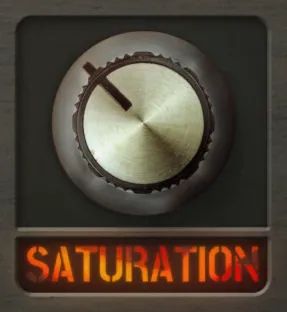
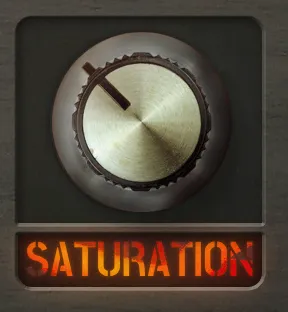
Update docs images

diff --git a/docs/index.html b/docs/index.html
@@ -997,7 +997,7 @@ footer img {
         "width": 1200,
         "height": 591
       },
-      "dateModified": "2026-09-17"
+      "dateModified": "2026-11-20"
     },
     {
       "@type": "BreadcrumbList",
@@ -1237,13 +1237,13 @@ footer img {
 </ul></li>
 </ul></section>
 <section id="user-interface"><h2><a class="anchor" href="#user-interface" aria-hidden="true" tabindex="-1">#</a>User Interface</h2><h3 id="dynamics"><a class="anchor" href="#dynamics" aria-hidden="true" tabindex="-1">#</a>Dynamics</h3>
-<figure class="shot shot-narrow"><a href="img/screenshots-dynamics.webp" target="_blank" rel="noopener"><img src="img/screenshots-dynamics.webp" alt="Button controls for the dynamics settings" loading="lazy" width="287" height="312"></a><figcaption>Button controls for the dynamics settings</figcaption></figure>
+<figure class="shot shot-narrow"><a href="img/screenshots-dynamics.webp" target="_blank" rel="noopener"><img src="img/screenshots-dynamics.webp" alt="Button controls for the dynamics settings" loading="lazy" width="288" height="312"></a><figcaption>Button controls for the dynamics settings</figcaption></figure>
 <p>Determines whether the velocity should affect the volume and distortion.</p>
 <h3 id="saturation"><a class="anchor" href="#saturation" aria-hidden="true" tabindex="-1">#</a>Saturation</h3>
-<figure class="shot shot-narrow"><a href="img/screenshots-saturation.webp" target="_blank" rel="noopener"><img src="img/screenshots-saturation.webp" alt="Controls for the saturation settings" loading="lazy" width="287" height="312"></a><figcaption>Controls for the saturation settings</figcaption></figure>
+<figure class="shot shot-narrow"><a href="img/screenshots-saturation.webp" target="_blank" rel="noopener"><img src="img/screenshots-saturation.webp" alt="Controls for the saturation settings" loading="lazy" width="288" height="312"></a><figcaption>Controls for the saturation settings</figcaption></figure>
 <p>The saturation knob blends between the clean samples and the distorted samples. The clean samples are recorded through a Roland PA-120 mixer. The distorted/saturated samples are additionally sent through a Hairball Audio FET/RACK (1176 compressor) and a transformer and diode saturator. The stereo samples are the same as the mono samples, but sent through a TC Electronic SCF Stereo Chorus Flanger in vibrato mode. This gives a much wider sound, but less bottom end when summed to mono.</p>
 <h3 id="envelope"><a class="anchor" href="#envelope" aria-hidden="true" tabindex="-1">#</a>Envelope</h3>
-<figure class="shot"><a href="img/screenshots-envelope.webp" target="_blank" rel="noopener"><img src="img/screenshots-envelope.webp" alt="Controls for the envelope settings" loading="lazy" width="960" height="311"></a><figcaption>Controls for the envelope settings</figcaption></figure>
+<figure class="shot"><a href="img/screenshots-envelope.webp" target="_blank" rel="noopener"><img src="img/screenshots-envelope.webp" alt="Controls for the envelope settings" loading="lazy" width="960" height="312"></a><figcaption>Controls for the envelope settings</figcaption></figure>
 <p>Attack, decay, sustain and release times for the amplitude envelope.</p></section>
 <section id="equipment-used"><h2><a class="anchor" href="#equipment-used" aria-hidden="true" tabindex="-1">#</a>Equipment used</h2><ul class="gear">
 <li><img src="img/equipment-dreadbox-erebus-v2.webp" alt="Dreadbox Erebus v2" loading="lazy"><span class="label"><a href="https://www.dehlimusikk.no/equipment/instruments/dreadbox-erebus-v2/" target="_blank" rel="noopener">Dreadbox Erebus v2</a></span></li>

diff --git a/docs/video/index.html b/docs/video/index.html
@@ -961,7 +961,7 @@ footer img {
       "mainEntity": {
         "@id": "https://benjamindehli.github.io/SubC/video/#video"
       },
-      "dateModified": "2026-09-17"
+      "dateModified": "2026-11-20"
     },
     {
       "@type": "BreadcrumbList",
